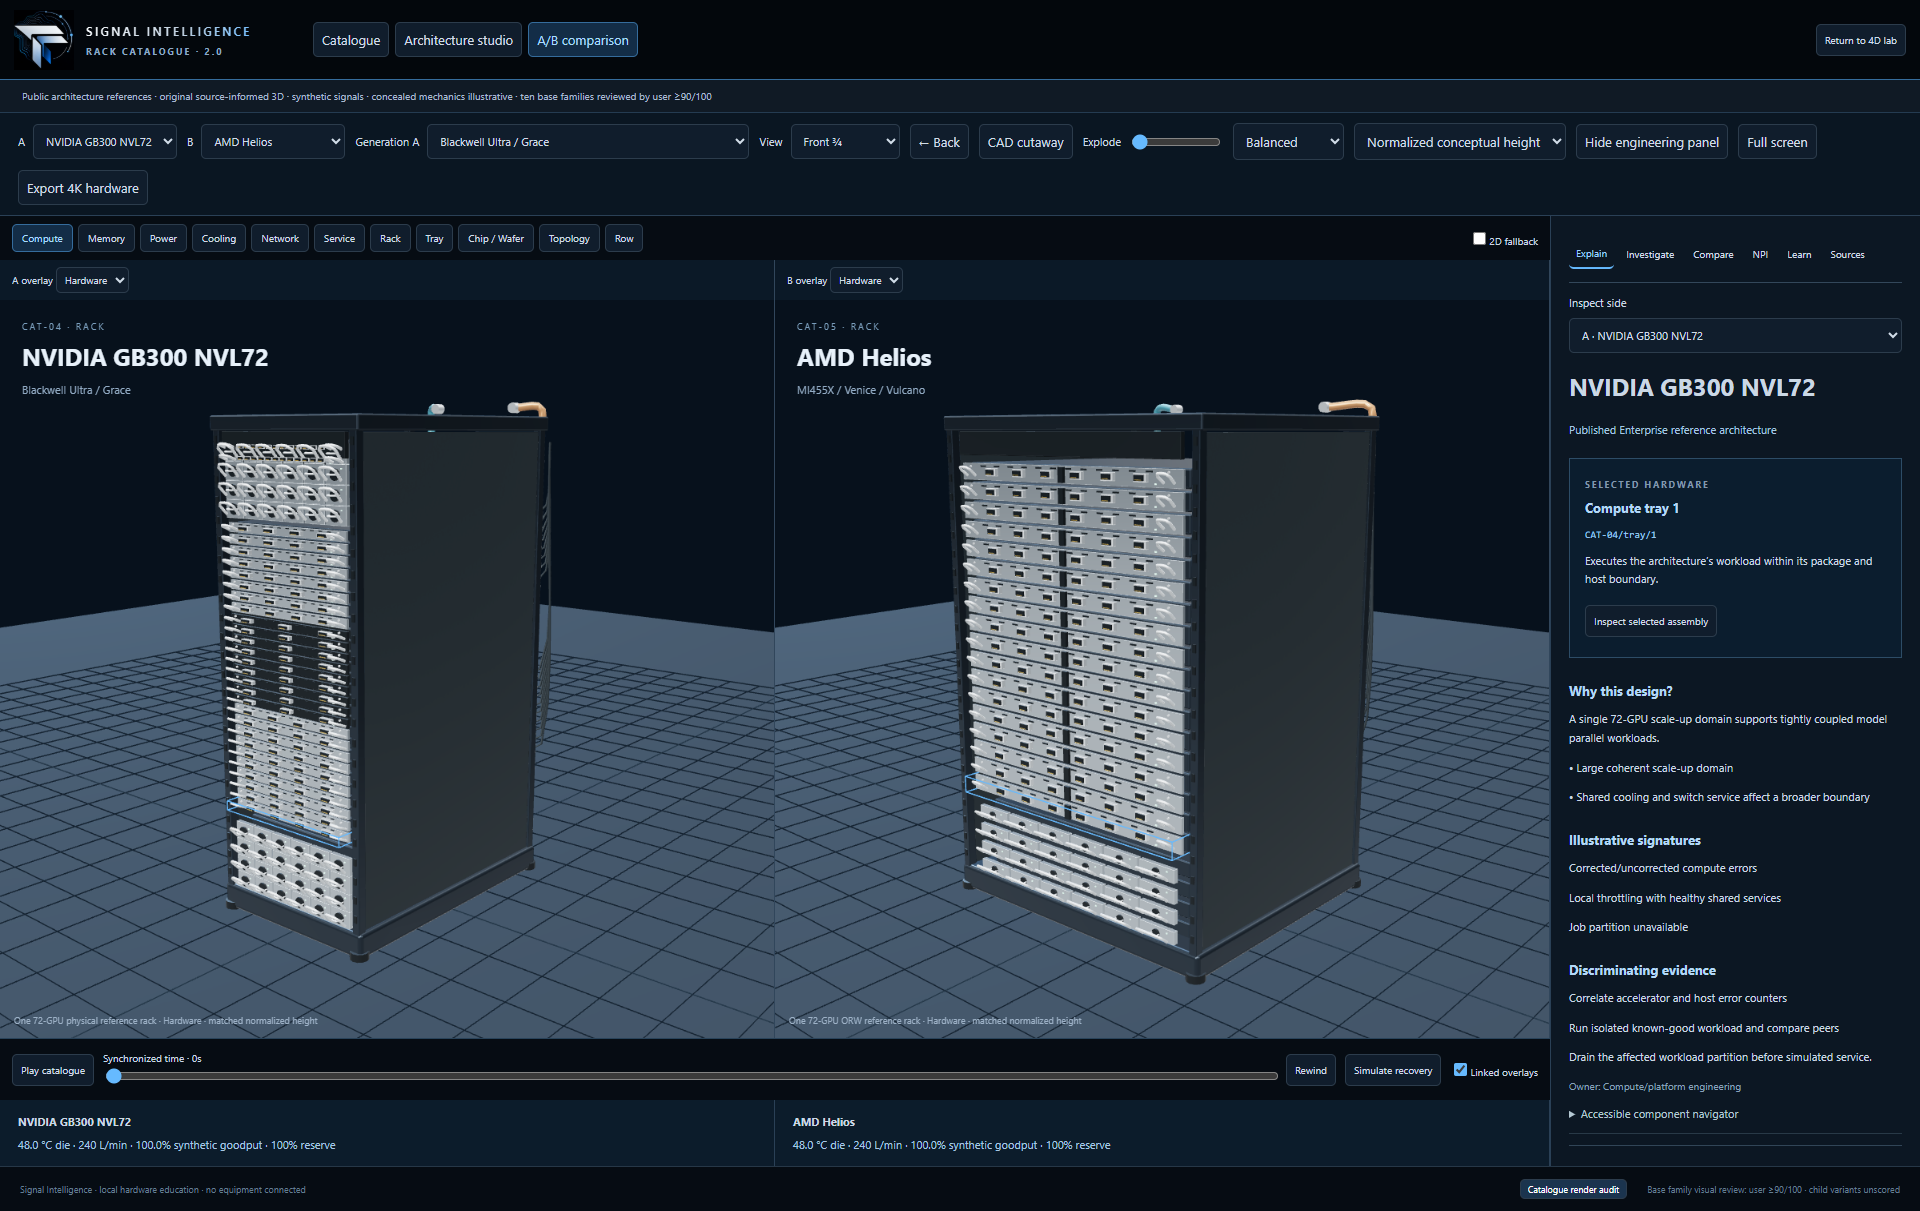
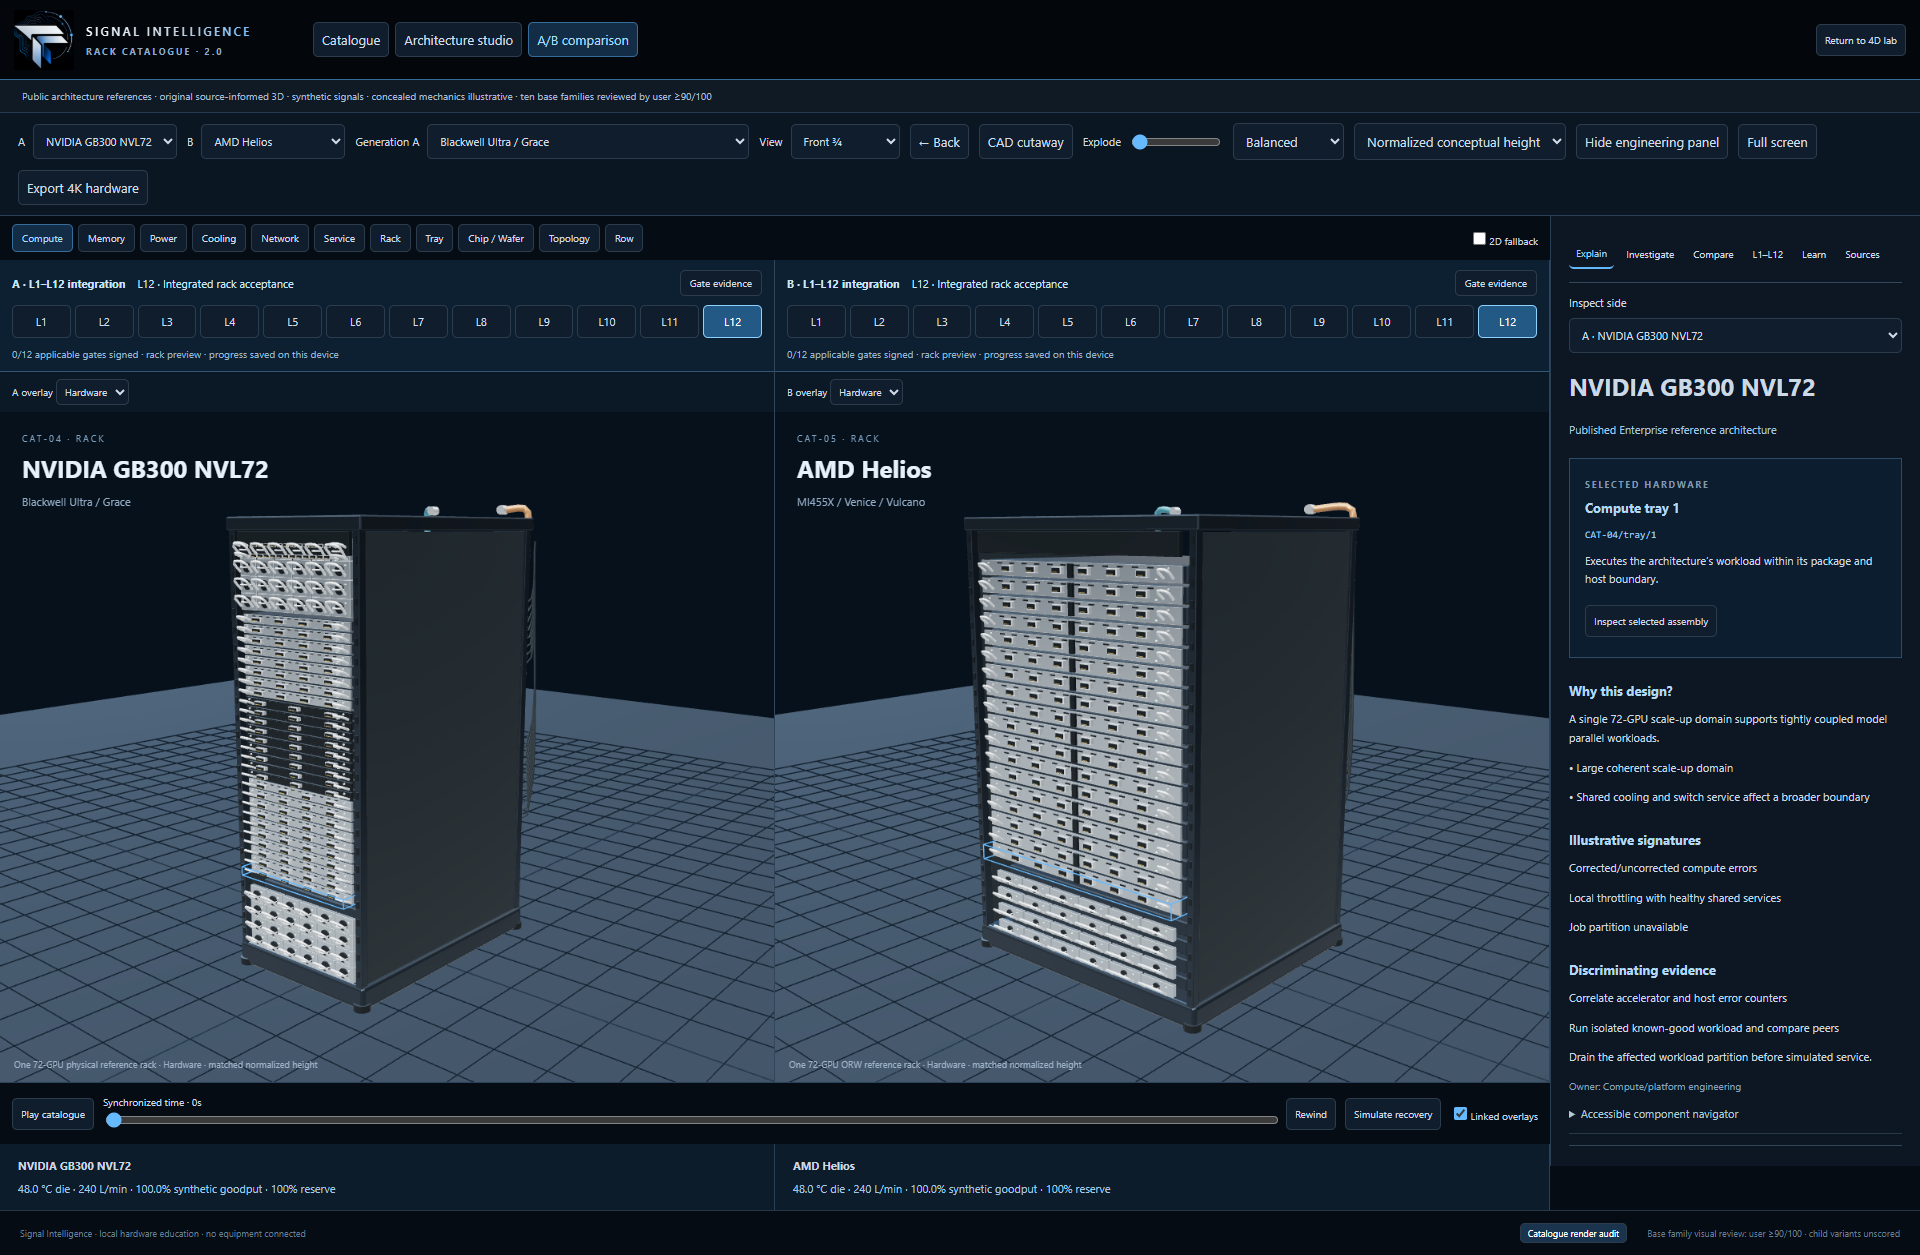
Record verified live L1-L12 restoration and screenshots

diff --git a/signal-intelligence-rack-to-row-4d/PERFORMANCE.md b/signal-intelligence-rack-to-row-4d/PERFORMANCE.md
@@ -8,7 +8,7 @@ Each base-family rack sample contains five one-second FPS readings after a settl
 |---|---:|---:|---:|
 | Enterprise EIA | 48 | 11 | 55,490 |
 | OCP ORv3 | 72 | 11 | 21,470 |
-| DGX B200 | 72 | 10 | 39,914 |
+| DGX B200 | 38 | 10 | 39,914 |
 | GB300 NVL72 | 69 | 13 | 65,518 |
 | AMD Helios | 72 | 13 | 56,686 |
 | Google Ironwood | 54 | 14 | 59,862 |
@@ -17,7 +17,7 @@ Each base-family rack sample contains five one-second FPS readings after a settl
 | Cerebras CS-4 | 56 | 10 | 10,838 |
 | HPE Cray EX4000 | 67 | 13 | 54,766 |
 
-The base-family median range is 48–72 FPS. Cray's row reflects the final refresh. DGX reflects the L1–L12 restoration at L12, including its added AC distribution, with five native readings of 72 FPS; see evidence/catalogue-v2/publication-local-verification.json. The other eight retain the full capture samples. Individual samples fluctuate; see the raw minimum/maximum and sample arrays rather than interpreting medians as a sustained floor. A/B comparison has two independently rendered canvases, so its total calls and triangles are the sum of both sides. The recorded GB300/Helios cooling pair uses 26 calls and 125,660 triangles total, with a median of 72 FPS per side in the final five short readings. Its separately recorded audit is under `metrics.comparison`; no all-pair sustained FPS claim is made.
+The table combines dated captures rather than one simultaneous benchmark. DGX reflects the latest public L1–L12 restoration at L12, including its added AC distribution: samples 45, 36, 38, 37 and 45 FPS (median 38), recorded in evidence/catalogue-v2/public-verification.json. An earlier native check of the same local distribution returned five readings of 72 FPS in publication-local-verification.json. The cause of that variation was not measured; neither result is a guaranteed sustained rate. Cray reflects the previous final refresh, and the other eight retain the original full capture samples. Those nine rows are historical measurements, not a complete post-restoration benchmark. The mixed table spans 38–72 FPS. A/B comparison has two independently rendered canvases, so its calls and triangles sum both sides. The earlier GB300/Helios cooling audit used 26 calls and 125,660 triangles total with short median readings of 72 FPS per side under `metrics.comparison`; no all-pair sustained FPS claim is made.
 
 Two complete family-switch cycles recorded equal geometry/texture counts for corresponding families after settling. They demonstrate bounded object counts across that test, not byte-level GPU-memory use or a long-duration leak proof. Batched material geometry limits draw calls; generated environment lighting and model assets stay local. The capture recorded no uncaught page exceptions and no external runtime requests.
 

diff --git a/signal-intelligence-rack-to-row-4d/PUBLICATION.md b/signal-intelligence-rack-to-row-4d/PUBLICATION.md
@@ -10,4 +10,10 @@ Native Chrome verification of the actual public URL passed: HTTP 200; ten decode
 
 The public link opens the catalogue directly. The root URL without `?catalogue=1` opens the original lab. Source, offline distribution, provenance, acceptance gaps, local screenshots and test results remain available in the repository. Public hosting adds no account requirement, telemetry service or equipment connection to the application.
 
+## L1–L12 restoration deployed and verified
+
+Source commit `2dece2a`; static Pages commit `4de34c19ec26ee414b372e0bd7178bf35a3156ee`. GitHub reports this build as **built**. Native Chrome verified the actual public site on October 15: all ten direct L1–L12 entries, twelve stage controls per pane, independent architecture levels, active-incident blocking and clearing, earned L1 signoff and return to the original lab. No uncaught exceptions or failed HTTP responses were recorded. [Live stage comparison](evidence/catalogue-v2/public-lifecycle.png), [DGX L2 power preview](evidence/catalogue-v2/public-DGX-L2-power.png), [verification JSON](evidence/catalogue-v2/public-verification.json), [complete lifecycle test report](evidence/catalogue-v2/lifecycle/test-results.json).
+
+Existing open tabs may need a hard refresh (Ctrl+Shift+R) to load the new application bundle. All later documentation-only commits preserve this deployed static build.
+
 To republish a later tested distribution, commit its source/build and push the source branch, then split `signal-intelligence-rack-to-row-4d/dist` with `git subtree split` and push that commit to `gh-pages` without force. GitHub Pages serves the branch root; `.nojekyll` and repository-relative asset paths are included. `node scripts/github-pages.mjs status` checks deployment status using existing Git credential-manager authentication without logging credentials; `node scripts/verify-public.mjs` repeats the live verification.

diff --git a/signal-intelligence-rack-to-row-4d/CATALOGUE_L1_L12.md b/signal-intelligence-rack-to-row-4d/CATALOGUE_L1_L12.md
@@ -17,3 +17,5 @@ Each architecture and modelled generation keeps its own preview level, check res
 These are educational synthetic fixtures, not measured physical qualification, program-specific vendor instructions or real engineering approvals. Original diagnostic, simulation, source, offline and model-import functionality remains intact.
 
 Validation and screenshots are recorded under `evidence/catalogue-v2/lifecycle/`. The unit suite checks every family's twelve definitions, sequential prerequisites, explicit N/A handling, fault blocking, generation isolation, storage parsing and actual staged geometry ownership. Browser coverage checks all ten card entry points, all 120 stage previews, all 118 applicable signoffs, persistence, A/B/Rubin isolation, failed fixtures, downstream invalidation and evidence export, alongside the original workflows.
+
+[Actual public A/B stage screenshot](evidence/catalogue-v2/public-lifecycle.png) · [Ten-family stage results](evidence/catalogue-v2/lifecycle/family-stages.json) · [118 gate signoffs](evidence/catalogue-v2/lifecycle/gate-signoffs.json) · [Tests and resolved findings](evidence/catalogue-v2/lifecycle/test-results.json)
